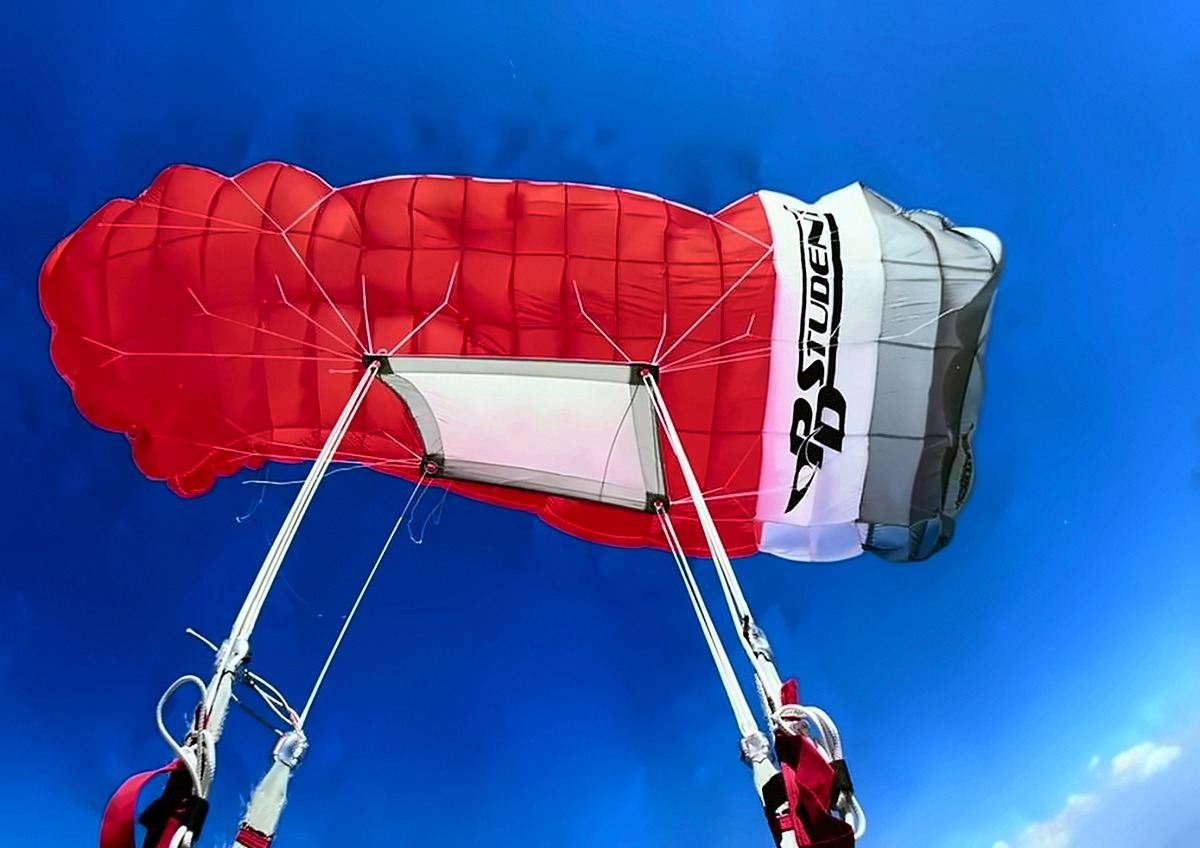
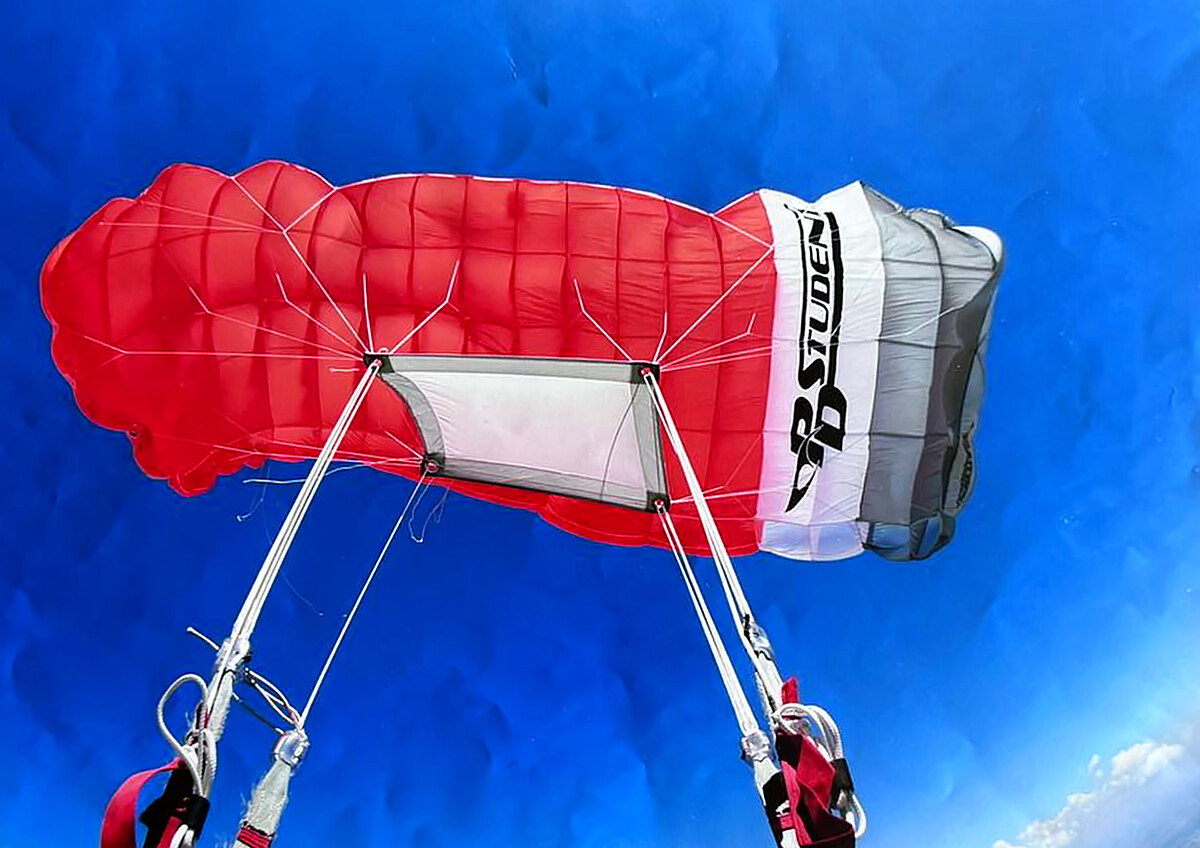
Главпрыг: плакаты отказов переделаны в ImageMagick и G'MIC

diff --git a/glavpryg-sayt/otkazy-plakaty/plakaty.py b/glavpryg-sayt/otkazy-plakaty/plakaty.py
@@ -1,0 +1,60 @@
+#!/usr/bin/env python3
+"""Плакаты отказов: геометрия в ImageMagick, обработка в G'MIC и ImageMagick.
+
+Запуск: python3 plakaty.py [папка-вывода]  (нужны пакеты imagemagick и gmic)
+"""
+import math, os, subprocess, sys, tempfile
+
+SRC='/home/mokeeva/main/exchange/otkazy-yadisk/photo_2026-10-12_12-'
+OUT=sys.argv[1] if len(sys.argv)>1 else os.path.dirname(os.path.abspath(__file__))
+W,H=1200,848
+U={
+ '34-25':((82,83),(806,93),(812,1140),(115,1180),'cover'),
+ '38-53':((224,303),(803,303),(799,1134),(228,1136),'cover'),
+ '38-56':((118,152),(803,168),(797,1152),(152,1172),'cover'),
+ '38-58':((127,130),(853,150),(850,1168),(160,1192),'cover'),
+ '39-01':((100,152),(860,184),(834,1117),(93,1119),'cover'),
+ '39-03':((104,234),(860,266),(834,1042),(98,1044),'cover'),
+ '39-05':((119,151),(851,179),(819,1089),(119,1099),'cover'),
+ '39-08':((119,101),(839,149),(821,1153),(126,1176),'cover'),
+ '39-10':((133,121),(854,134),(849,1168),(164,1207),'cover'),
+ '39-12':((151,81),(884,96),(879,1149),(181,1188),'cover'),
+ '39-14':((113,101),(853,118),(867,1181),(129,1194),'cover'),
+ '39-16':((103,116),(824,141),(819,1168),(128,1203),'cover'),
+ '39-20':((148,96),(844,126),(841,1134),(146,1159),'cover'),
+ '39-22':((163,101),(847,152),(810,1144),(131,1213),'cover'),
+ '39-25':((151,148),(810,184),(814,1169),(133,1179),'cover'),
+ '39-26':((96,134),(837,151),(834,1224),(121,1251),'cover'),
+}
+NIZ={'38-53':0.0,'39-01':0.0,'39-05':0.0}  # доля кадра снизу под логотипы; у фото без логотипов — 0
+MYAGKO={'38-53','39-01'}                   # серое небо с тонкими стропами — сглаживать бережнее
+
+def zapusk(*k): subprocess.run(k,check=True)
+
+for i,(n,(tl,tr,br,bl,_)) in enumerate(sorted(U.items()),1):
+    q=[tl,tr,br,bl]
+    # поджимаем на 3,5 %: срезаем кромку листа и полоски нижних листов
+    cx=sum(p[0] for p in q)/4; cy=sum(p[1] for p in q)/4
+    q=[(cx+(x-cx)*0.965,cy+(y-cy)*0.965) for x,y in q]
+    dl=lambda a,b: math.dist(q[a],q[b])
+    k=1.6; w=int((dl(0,3)+dl(1,2))/2*k); h=int((dl(0,1)+dl(3,2))/2*k)
+    # поворот на 90° против часовой: ЛВ фото → ЛН, ПВ → ЛВ, ПН → ПВ, ЛН → ПН
+    dst=[(0,h),(0,0),(w,0),(w,h)]
+    pary=' '.join(f'{x:.1f},{y:.1f} {u},{v}' for (x,y),(u,v) in zip(q,dst))
+    hh=int(h*(1-NIZ.get(n,0.085)))
+    with tempfile.TemporaryDirectory() as t:
+        geo,gl=f'{t}/geo.png',f'{t}/gl.png'
+        # 1. ImageMagick: перспектива, поворот, срез полосы логотипов
+        zapusk('convert',SRC+n+'.jpg','-virtual-pixel','edge','-filter','Lanczos',
+               '-define',f'distort:viewport={w}x{h}+0+0','-distort','Perspective',pary,
+               '+repage','-crop',f'{w}x{hh}+0+0','+repage',geo)
+        # 2. G'MIC: анизотропное сглаживание — убирает зерно и складки бумаги вдоль, не размывая стропы
+        a='40,0.9,1,0.5,1.0,0.8,30,2,0,1' if n in MYAGKO else '70,0.9,1,0.6,1.2,0.8,30,2,0,1'
+        zapusk('gmic','-v','-1',geo,'smooth',a,'-o',gl)
+        # 3. ImageMagick: уровни, контраст, сочность, резкость, кадр 1200×848
+        zapusk('convert',gl,'-channel','RGB','-contrast-stretch','0.2%x0.15%','+channel',
+               '-sigmoidal-contrast','2,50%','-modulate','101,112,100',
+               '-resize',f'{round(W*1.03)}x{round(H*1.03)}^','-gravity','center','-extent',f'{W}x{H}',
+               '-unsharp','0x1.2+0.7+0.02','-strip','-quality','90',
+               f'{OUT}/plakat-{i:02d}.jpg')
+    print(f'plakat-{i:02d}.jpg ← {n}')
